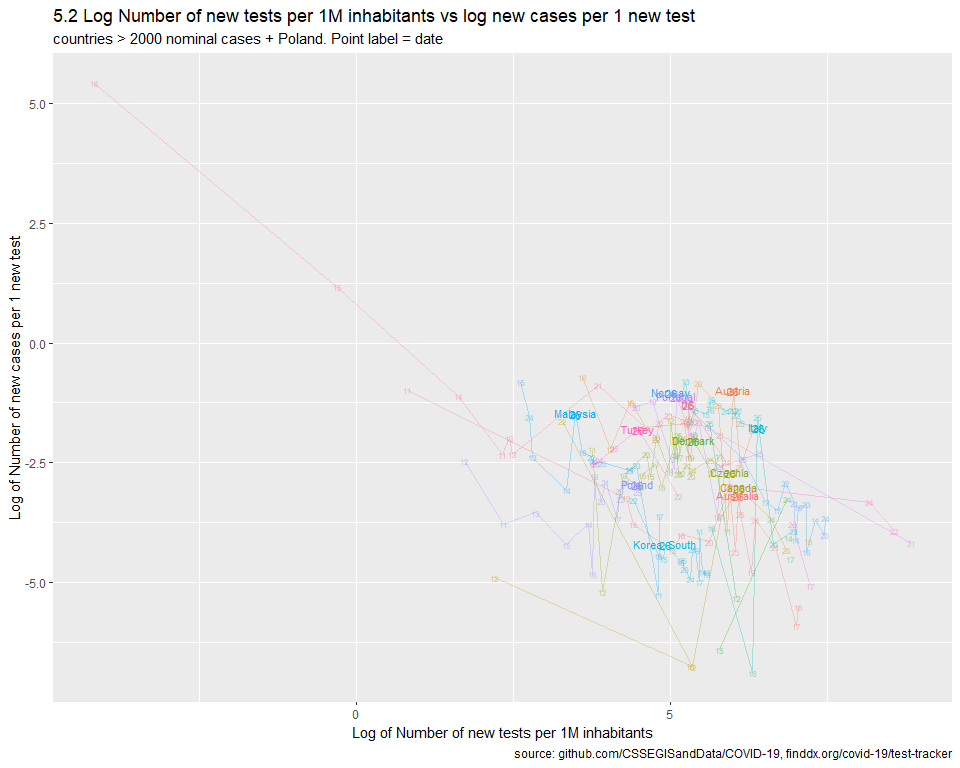
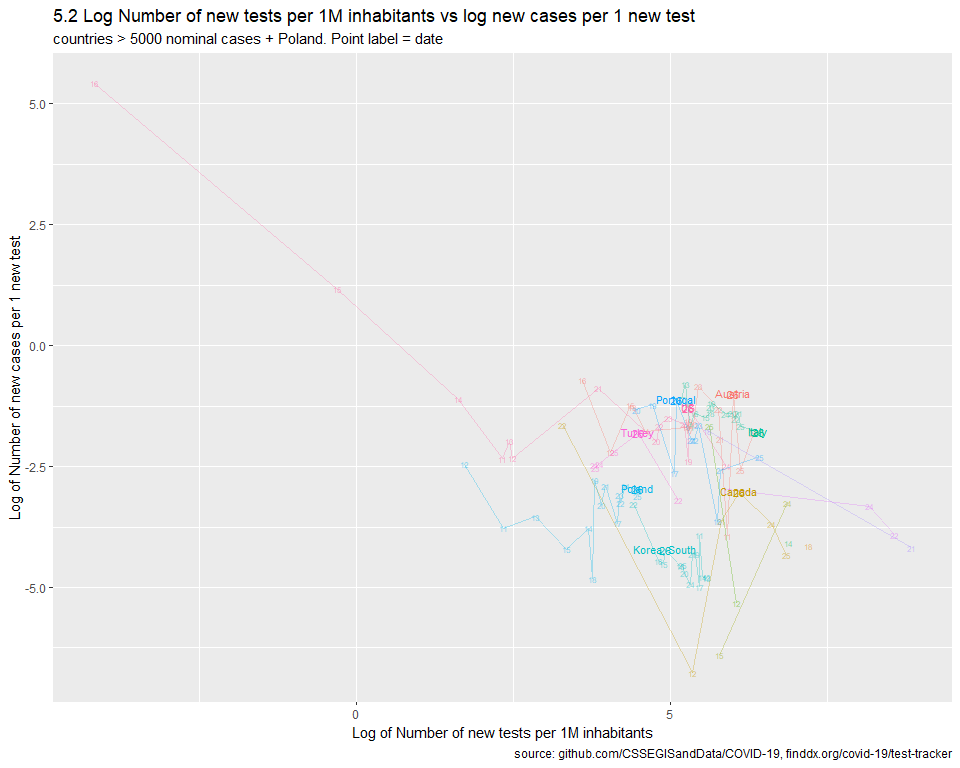
new data, death charts

diff --git a/main.md b/main.md
@@ -6,18 +6,20 @@ MK
 ## Params
 
 ``` r
-url_conf <- "https://raw.githubusercontent.com/CSSEGISandData/COVID-19/master/csse_covid_19_data/csse_covid_19_time_series/time_series_19-covid-Confirmed.csv"
 url_conf <- "https://raw.githubusercontent.com/CSSEGISandData/COVID-19/master/csse_covid_19_data/csse_covid_19_time_series/time_series_covid19_confirmed_global.csv"
+url_dead <- "https://raw.githubusercontent.com/CSSEGISandData/COVID-19/master/csse_covid_19_data/csse_covid_19_time_series/time_series_covid19_deaths_global.csv"
+MIN_VALUE <- 5000
+MIN_VALUE_DEATHS <- 500
 MIN_DATE_TESTS <- "2020-03-10"
-MIN_DATE <- "2020-03-17"
-TODAY    <- "2020-03-27"
+MIN_DATE <- "2020-03-20"
+TODAY    <- "2020-03-28"
 TAKE_LOG <- TRUE
 ```
 
 ## Calc
 
 ``` r
-build_data <- function(START_CASES_NO = 1, MIN_CASES = 1000, MAX_CASES = Inf, CHART_MAX = 10000, countries_include = c("Poland")){
+build_data <- function(START_CASES_NO = 1, MIN_CASES = MIN_VALUE, MAX_CASES = Inf, CHART_MAX = 10000, countries_include = c("Poland"), dead=FALSE){
 
   population <- fread("API_SP.POP.TOTL_DS2_en_csv_v2_866861.csv", header = TRUE) %>% 
     select(`Country Name`, `2018`) %>% 
@@ -29,7 +31,7 @@ build_data <- function(START_CASES_NO = 1, MIN_CASES = 1000, MAX_CASES = Inf, CH
     rename(country = `Country Name`, land = `2018`)
   
   data_conf <- 
-    fread(url_conf) %>% 
+    fread(ifelse(dead,url_dead,url_conf)) %>% 
     melt(., id.vars = c(1,2,3,4)) %>% 
     mutate (date = as.Date(variable, format = "%m/%d/%y")) %>% 
     select(-variable) %>% 
@@ -123,3 +125,9 @@ Idea:
     ## Joining, by = "country"
 
 ![](main_files/figure-gfm/unnamed-chunk-12-1.png)<!-- -->
+
+### Deaths
+
+![](main_files/figure-gfm/unnamed-chunk-13-1.png)<!-- -->
+
+![](main_files/figure-gfm/unnamed-chunk-14-1.png)<!-- -->
